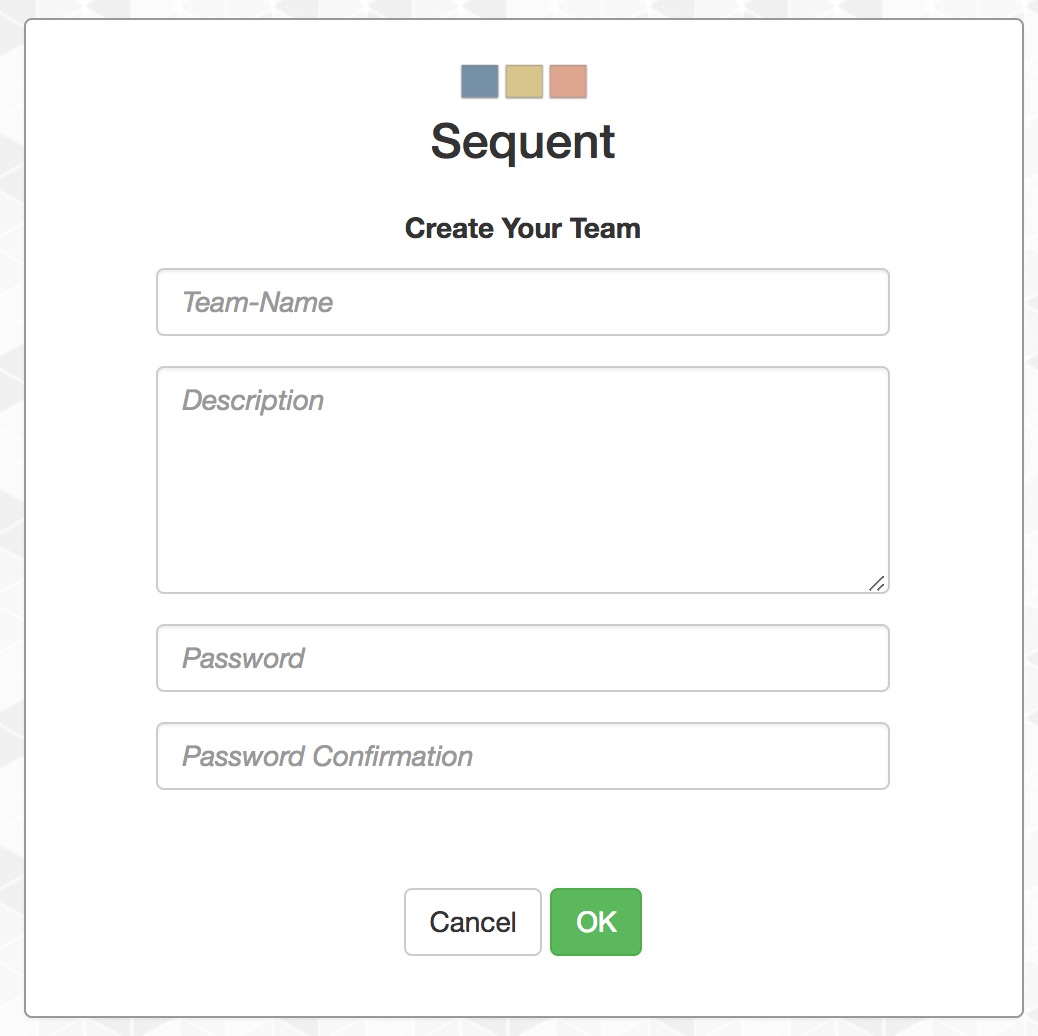
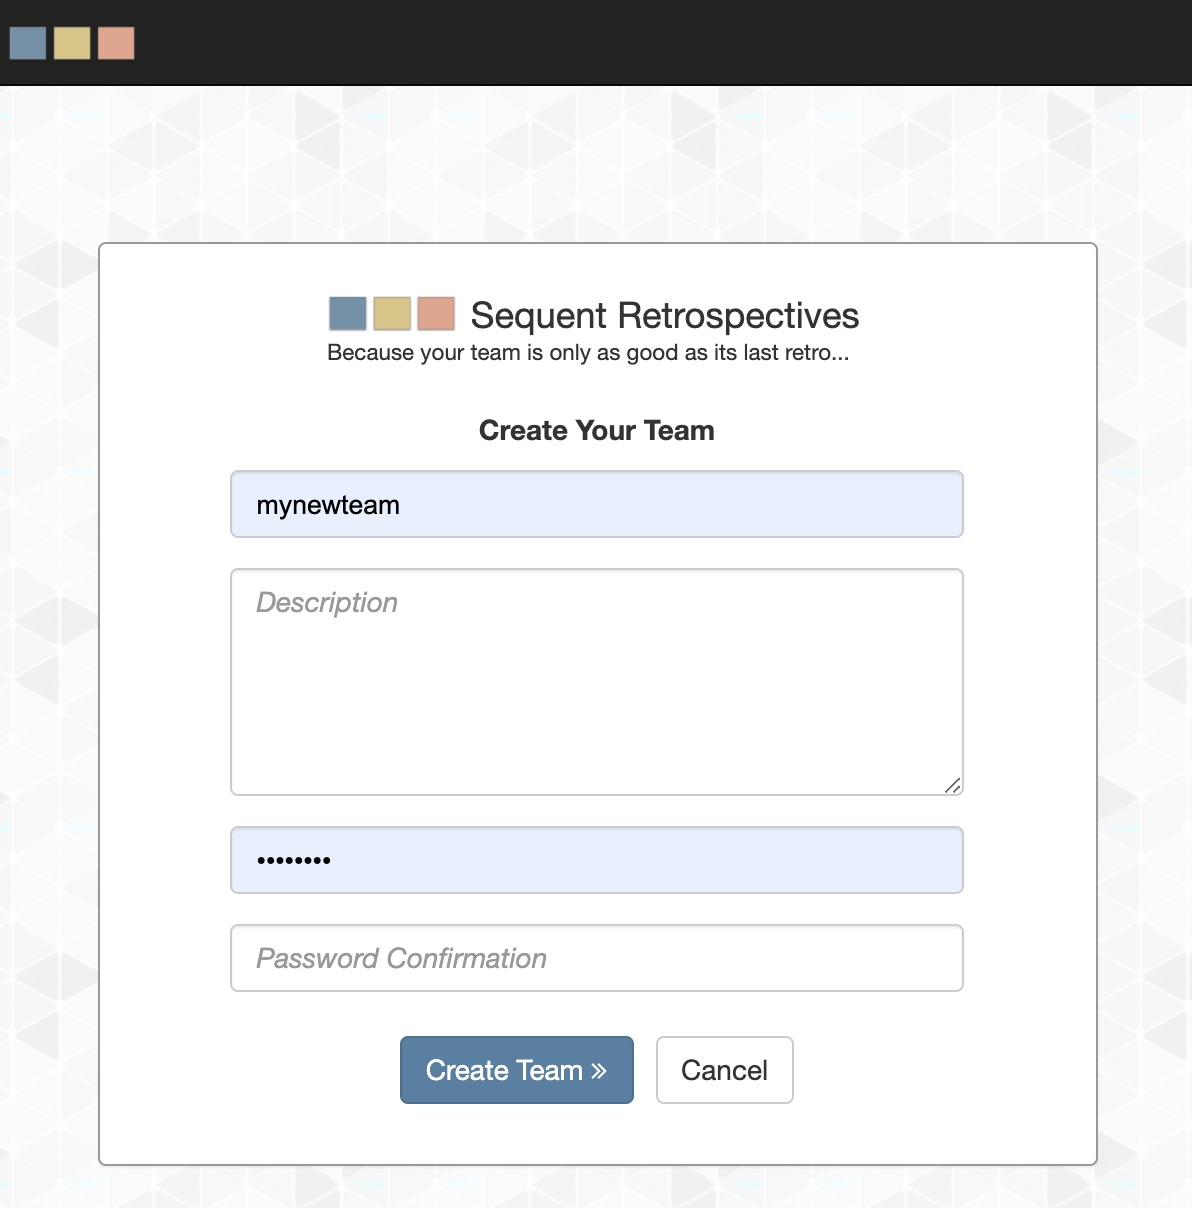
#26 Change start page to clearly separate creating new team functionality from login functionality

diff --git a/src/testSuite/common/start.tests.js b/src/testSuite/common/start.tests.js
@@ -36,7 +36,7 @@ if (Meteor.isClient) {
             sandbox.restore()
         });
 
-        it('displays correctly', function () {
+        it('displays start correctly', function () {
             sandbox.stub(Sequent, 'getSettings').returns(fakeSettings)
 
             withRenderedTemplate('start', null, (el) => {
@@ -45,9 +45,18 @@ if (Meteor.isClient) {
                 expect($(el).find('#teamName'), 'team name').to.have.length(1)
                 expect($(el).find('#password'), 'password').to.have.length(1)
                 expect($(el).find('#btnNext'), 'btn next').to.have.length(1)
-                expect($(el).find('#btnNewTeam'), 'btn new team').to.have.length(1)
+                expect($(el).find('#btnNewTeam'), 'btn new team').to.have.length(0)
                 expect($(el).find('div.error-message'), 'error msg').to.have.length(1)
                 expect($(el).find('div.fullscreen')[0].style.backgroundImage, 'background').to.contains('fakebackground.png')
+            });
+        })
+
+        it('displays start nav correctly', function () {
+            sandbox.stub(Sequent, 'getSettings').returns(fakeSettings)
+
+            withRenderedTemplate('startNav', null, (el) => {
+                expect($(el).find('div.navbar-header img'), 'logo image').to.have.length(1)
+                expect($(el).find('#btnNewTeam'), 'btn new team').to.have.length(1)
             });
         })
     })

diff --git a/src/client/common/sequentVersions.html b/src/client/common/sequentVersions.html
@@ -4,10 +4,18 @@
             <div class="col-md-6 col-md-offset-3 col-sm-12">
                 <div class="list-group" style="margin-top: 21px; opacity: 0.75;">
                     <div class="list-group-item">
+                        <h4 class="list-group-item-heading">Version 0.1.22 - March 2021</h4>
+                        <p class="list-group-item-text">
+                        <ul>
+                            <li>Change start page to clearly separate creating new team functionality from login functionality</li>
+                        </ul>
+                        </p>
+                    </div>
+                    <div class="list-group-item">
                         <h4 class="list-group-item-heading">Version 0.1.21 - March 2021</h4>
                         <p class="list-group-item-text">
                         <ul>
-                            <li>Constrain retro column horizontal widths so highlighted items display correctly.</li>
+                            <li>Constrain retro column horizontal widths so highlighted items display correctly</li>
                         </ul>
                         </p>
                     </div>

diff --git a/src/client/common/start.html b/src/client/common/start.html
@@ -15,8 +15,7 @@
                             </div>
                             <div id="errorMessage" class="error-message">{{errMessage}}</div>
                             <div>
-                                <button type="button" class="btn btn-primary" id="btnNewTeam" style="margin-bottom: 12px;"><i class="fa fa-plus-circle" aria-hidden="true"></i> Create New Team</button>
-                                <button type="submit" class="btn btn-warning" id="btnNext" style="margin-bottom: 12px;">Login <i class="fa fa-angle-double-right" aria-hidden="true"></i></button>
+                                <button type="submit" class="btn btn-warning" id="btnNext" style="float: left; margin-bottom: 12px;">Login <i class="fa fa-angle-double-right" aria-hidden="true"></i></button>
                             </div>
                         </fieldset>
                     </form>

diff --git a/src/client/common/newTeam.html b/src/client/common/newTeam.html
@@ -25,8 +25,8 @@
                             <span id="errorMessage" class="error-message">{{errMessage}}</span>
                         </p>
                         <p>
-                            <button type="submit" id="btnCreateNewTeam" class="btn btn-primary">Create Team <i class="fa fa-angle-double-right" aria-hidden="true"></i></button>
-                            <button type="button" class="btn btn-default" id="btnCancel">Cancel</button>
+                            <button type="submit" id="btnCreateNewTeam" class="btn btn-primary" style="margin-top: 7px;">Create Team <i class="fa fa-angle-double-right" aria-hidden="true"></i></button>
+                            <button type="button" class="btn btn-default" id="btnCancel" style="margin-top: 7px;">Cancel</button>
                         </p>
                     </form>
                 </div>

diff --git a/src/client/common/startNav.html b/src/client/common/startNav.html
@@ -1,0 +1,14 @@
+<template name="startNav">
+    <nav class="navbar navbar-inverse navbar-static-top" style="margin: 0; min-width: 300px;">
+        <div class="row">
+            <div class="col-xs-5">
+                <div class="navbar-header" style="min-width: 150px; width: 100%; overflow: hidden; text-overflow: ellipsis;">
+                    <img alt="Brand" src="/Sequent.png" width="64" style="margin-left: 14px; margin-top: 20px">
+                </div>
+            </div>
+            <div class="col-xs-7 text-right" style="white-space: nowrap; z-index: 999">
+                <a id="btnNewTeam" class="btn btn-link" href="/new" style="position: relative; top: 9px; margin-right: 12px;">Create New Team</a>
+            </div>
+        </div>
+    </nav>
+</template>

diff --git a/src/client/common/newNav.html b/src/client/common/newNav.html
@@ -1,0 +1,13 @@
+<template name="newNav">
+    <nav class="navbar navbar-inverse navbar-static-top" style="margin: 0; min-width: 300px;">
+        <div class="row">
+            <div class="col-xs-7">
+                <div class="navbar-header" style="min-width: 150px; width: 100%; overflow: hidden; text-overflow: ellipsis;">
+                    <img alt="Brand" src="/Sequent.png" width="64" style="margin-left: 14px; margin-top: 20px">
+                </div>
+            </div>
+            <div class="col-xs-5 text-right" style="white-space: nowrap; z-index: 999">
+            </div>
+        </div>
+    </nav>
+</template>

diff --git a/src/client/routes.js b/src/client/routes.js
@@ -8,7 +8,7 @@ FlowRouter.route('/', {
         if (Meteor.userId()) {
             FlowRouter.go('/retro/board')
         } else {
-            BlazeLayout.render('layout', { content: 'start' });
+            BlazeLayout.render('startLayout', { content: 'start' });
         }
     },
     name: 'start'
@@ -16,7 +16,7 @@ FlowRouter.route('/', {
 
 FlowRouter.route('/new', {
     action: function () {
-        BlazeLayout.render('layout', { content: 'newTeam' });
+        BlazeLayout.render('newLayout', { content: 'newTeam' });
     },
     name: 'new-team'
 });

diff --git a/src/client/common/startHeading.html b/src/client/common/startHeading.html
@@ -1,5 +1,5 @@
 <template name="startHeading">
-    <div style="text-align: left; width: 270px; margin: 0 auto;">
+    <div style="text-align: left; max-width: 270px; margin: 0 auto;">
         <img src="/Sequent.png" id="logoimage" width="64" style="margin-right: 4px;" />
         <div id="product-name" style="display: inline-block; font-size: 130%; position: relative; top: 3px;">Sequent Retrospectives</div>
         <div style="font-size: 80%; margin-top: 0px; margin-bottom: 21px;">

diff --git a/src/client/common/start.js b/src/client/common/start.js
@@ -6,6 +6,7 @@ import { $ } from 'meteor/jquery'
 import { Sequent, Settings } from '../../lib/sequent'
 
 import './start.html'
+import './startNav.html'
 
 Template.start.onCreated(function () {
     this.message = new ReactiveVar('')

diff --git a/src/client/common/startLayout.html b/src/client/common/startLayout.html
@@ -1,4 +1,5 @@
-<template name="layout">
+<template name="startLayout">
+    {{> startNav}}
     {{> Template.dynamic template=content }}
     {{> confirmDialog}}
 </template>

diff --git a/src/client/common/newLayout.html b/src/client/common/newLayout.html
@@ -1,4 +1,5 @@
-<template name="layout">
+<template name="newLayout">
+    {{> newNav}}
     {{> Template.dynamic template=content }}
     {{> confirmDialog}}
 </template>

diff --git a/README.md b/README.md
@@ -1,4 +1,4 @@
-## Sequent Retrospectives V1.21
+## Sequent Retrospectives V1.22
 
 Taking your teamperature every week is a great way to measure how well things are going with the group of people you spend most of your time with.
 
